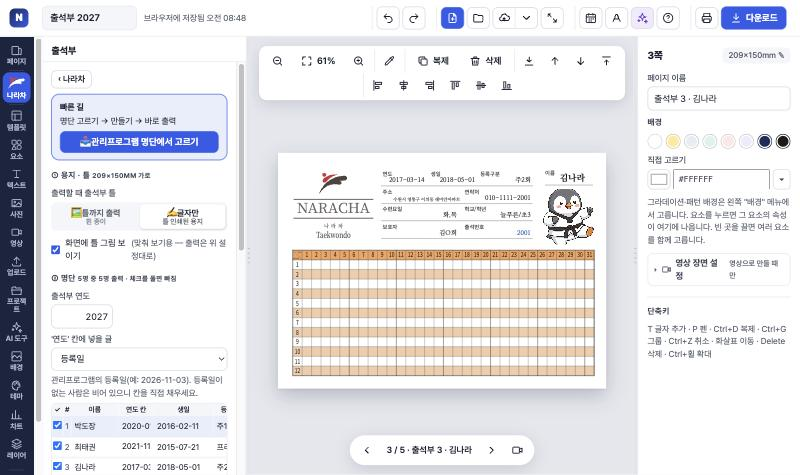
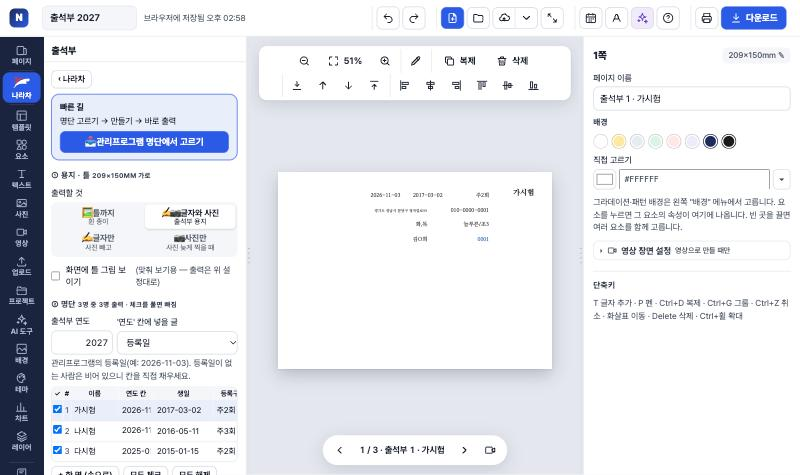
출석부 패널 미리 보기 뺌(오른쪽 편집 화면이 실시간 미리 보기), 매뉴얼 그림 다시 (20261119.1458)

diff --git a/manual.js b/manual.js
@@ -28,11 +28,11 @@ window.NC_MANUAL = [
     ] },
   { id: 'att', icon: '📋', title: '출석부 용지에 학생 정보 찍기', when: '연말 일괄 · 새 관원 올 때', sum: '관리 프로그램 명단에서 학생을 골라, 이미 인쇄된 출석부 용지(가로 209×150mm) 위쪽 빈칸에 이름·생일·연락처·사진 등을 찍습니다. 아래쪽 출석 칸은 그대로 둡니다.',
     steps: [
-      { t: '명단 고르기', d: '나라차 → <b>출석부</b>에서 <b>📥 관리프로그램 명단에서 고르기</b>를 누릅니다. 지금 <b>재원생만</b>(휴관·퇴관 빼고) 나옵니다. 고르는 방법은 네 가지입니다 — <b>재원생 전체</b>(연말에 한꺼번에), <b>반별</b>(반을 체크), <b>이름 검색</b>(한 명씩), <b>최근 등록생</b>(<b>오늘·이번 주·이번 달·기간 지정</b> — 새 관원이 왔을 때). 뺄 사람은 체크를 풉니다. 📷 표시는 관리 프로그램에 사진이 있는 사람입니다. <b>명단에 넣기</b>를 누르면 왼쪽 ② 명단에 들어가고 오른쪽에 출석부 쪽이 바로 만들어집니다 — 확인·고친 뒤 ④ <b>🖨 출석부 출력하기</b>나 위 막대 🖨 출력으로 찍습니다.', img: 'm31-att-pick.jpg',
+      { t: '명단 고르기', d: '나라차 → <b>출석부</b>에서 <b>📥 관리프로그램 명단에서 고르기</b>를 누릅니다. 지금 <b>재원생만</b>(휴관·퇴관 빼고) 나옵니다. 고르는 방법은 네 가지입니다 — <b>재원생 전체</b>(연말에 한꺼번에), <b>반별</b>(반을 체크), <b>이름 검색</b>(한 명씩), <b>최근 등록생</b>(<b>오늘·이번 주·이번 달·기간 지정</b> — 새 관원이 왔을 때). 뺄 사람은 체크를 풉니다. 📷 표시는 관리 프로그램에 사진이 있는 사람입니다. <b>명단에 넣기</b>를 누르면 왼쪽 ② 명단에 들어가고 오른쪽에 출석부 쪽이 바로 만들어집니다 — 오른쪽 편집 화면이 곧 미리 보기입니다 — 확인·고친 뒤 ③ <b>🖨 출석부 출력하기</b>나 위 막대 🖨 출력으로 찍습니다.', img: 'm31-att-pick.jpg',
         marks: [[15.8, 41.7, '재원생 전체 — 연말 일괄'], [38.6, 41.7, '반별'], [61.4, 41.7, '이름 검색 — 한 명씩'], [84.2, 41.7, '최근 등록생 — 새 관원'], [12, 49.2, '오늘·이번 주·이번 달·기간 지정'], [50, 63.3, '체크를 풀면 빠짐 · 📷 사진 있음'], [15.2, 71.3, '지금 명단을 바꾸기 (끄면 뒤에 더함)'], [90.7, 71.3, '명단에 넣기 → 왼쪽 명단·오른쪽 쪽에 바로']], go: [['attPick', '명단 고르기 열기']] },
       { t: '칸 확인하고 고치기', d: '패널 <b>② 명단</b> 표에서 칸을 바로 고칠 수 있습니다(주소는 관리프로그램 <b>학적부</b>의 주소 — 🗒 상담·특이사항 로그의 「주소: …」「주소변경: …」「거주지: …」 줄, 없으면 주소처럼 쓴 줄, 여러 개면 <b>가장 최근 날짜</b>(이사하면 학적부에 새 주소를 적으면 됨) — 에서 <b>지역까지만</b> — 도로명이면 <b>도로명 + 건물 번호</b>까지(정자일로55·정자일로 44), 아파트면 아파트 이름까지, 상세주소 숫자(109동·1100호·109-1100·층)·지번(190번지)·주소 뒤 메모(· 차량: …)는 뺌. 보호자 이름은 가운데 글자를 <b>O</b>로(김영희 → 김O희, 두 글자는 김O). 학교/학년은 겹치는 글자를 빼서 늘푸른/초3. <b>차량 이용 학생</b>은 이름 오른쪽에 작은 노란 차가 붙습니다(관리프로그램 차량 노선에 이름이 있으면 자동, 표의 🚌 칸으로 켜고 끔). 연락처·출석번호는 <b>어머니 휴대폰</b>(없으면 첫 보호자), 수련요일은 최근 8주 시간표에서 2주 이상 나온 요일). <b>연도 칸</b>에는 기본으로 <b>등록일</b>(예: 2026-11-03)이 들어갑니다(신규/기등록 자동·모두 기등록·연도 숫자·비움으로 바꿀 수 있음). 체크를 풀면 출력에서 빠집니다. 왼쪽에서 바꾼 것(명단·칸·연도 칸·명단 비우기·틀까지/글자만)은 <b>오른쪽 출석부 쪽에 바로</b> 나타납니다 — 「만들기」를 다시 누르지 않아도 됩니다. <b>화면에 틀 그림 보이기</b>를 켜면 출석부 용지 그림 위에서 글자 자리를 맞춰 볼 수 있습니다. 쪽에서 글 상자·사진을 옮긴 뒤 <b>이 쪽 배치를 모든 출석부에</b>를 누르면 모두 같은 자리로 바뀝니다.', img: 'm30-att-panel.jpg',
-        marks: [[18, 29.7, '관리프로그램 명단에서 고르기'], [18, 45.5, '출력할 때 틀 — 기본은 ✍ 글자만'], [7, 52, '화면에 틀 보이기 (글자만 출력일 때 맞춰 보기용)'], [8, 66.5, '출석부 연도'], [19, 75.5, '연도 칸 — 기본: 등록일'], [18, 92, '명단 — 체크 = 출력, 칸을 바로 고침'], [55, 56, '출석부 쪽 — 용지 칸에 맞게 글자·사진']], go: [['att', '출석부 열기']] },
-      { t: '출석부 출력하기', d: '출석부는 왼쪽에서 고르는 대로 오른쪽에 바로 만들어집니다. ④ <b>🖨 출석부 출력하기 (N장)</b>를 누르면 출력 창이 <b>출석부 쪽만</b>·용지 <b>A4 세로 맨 위(엡손에 맞춘 기본 자리)</b>·<b>실제 크기 100%</b>로 열립니다(출석부용 설정은 상장과 따로 기억). 윈도우·엡손 프린터 창은 <b>용지 A4·세로·배율 100%</b> 그대로 두고, 출석부 용지를 <b>A4처럼 위쪽(로고·이름 쪽)부터</b> 뒤쪽 급지대에 넣습니다. 어긋나면 출력 창의 <b>위치 보정</b>(가로·세로 mm). 출력할 것은 네 가지 — <b>🖼 틀까지</b>(흰 종이에 틀·글자·사진), <b>✍📷 글자와 사진</b>(인쇄된 출석부 용지 — 기본), <b>✍ 글자만</b>(사진은 빼고 — 사진은 나중에), <b>📷 사진만</b>(사진을 늦게 찍었을 때 — 글자가 이미 찍힌 출석부에 사진만, 사진 있는 쪽만 나감). 빼는 것은 편집 화면에서 흐리게 보입니다. 출력 자리는 엡손으로 맞춘 기본 자리(A4 맨 위에서 5mm 아래)라 여백·위치 보정은 0 그대로 두면 됩니다.', img: 'm32-att-print.jpg',
+        marks: [[18.1, 29.9, '관리프로그램 명단에서 고르기'], [18.1, 48.4, '출력할 것 — 틀까지·글자와 사진(기본)·글자만·사진만'], [9, 58.1, '화면에 틀 보이기 (맞춰 보기용)'], [10.3, 72.2, '출석부 연도'], [22.2, 72.2, '연도 칸 — 기본: 등록일'], [18, 89.4, '명단 — 체크 = 출력, 칸을 바로 고침'], [51.9, 57, '오른쪽 편집 화면 = 미리 보기 (실시간)']], go: [['att', '출석부 열기']] },
+      { t: '출석부 출력하기', d: '출석부는 왼쪽에서 고르는 대로 오른쪽 편집 화면에 바로 만들어집니다(그 화면이 미리 보기). ③ <b>🖨 출석부 출력하기 (N장)</b>를 누르면 출력 창이 <b>출석부 쪽만</b>·용지 <b>A4 세로 맨 위(엡손에 맞춘 기본 자리)</b>·<b>실제 크기 100%</b>로 열립니다(출석부용 설정은 상장과 따로 기억). 윈도우·엡손 프린터 창은 <b>용지 A4·세로·배율 100%</b> 그대로 두고, 출석부 용지를 <b>A4처럼 위쪽(로고·이름 쪽)부터</b> 뒤쪽 급지대에 넣습니다. 어긋나면 출력 창의 <b>위치 보정</b>(가로·세로 mm). 출력할 것은 네 가지 — <b>🖼 틀까지</b>(흰 종이에 틀·글자·사진), <b>✍📷 글자와 사진</b>(인쇄된 출석부 용지 — 기본), <b>✍ 글자만</b>(사진은 빼고 — 사진은 나중에), <b>📷 사진만</b>(사진을 늦게 찍었을 때 — 글자가 이미 찍힌 출석부에 사진만, 사진 있는 쪽만 나감). 빼는 것은 편집 화면에서 흐리게 보입니다. 출력 자리는 엡손으로 맞춘 기본 자리(A4 맨 위에서 5mm 아래)라 여백·위치 보정은 0 그대로 두면 됩니다.', img: 'm32-att-print.jpg',
         marks: [[48, 27, '출력할 쪽 — 출석부 쪽만'], [70, 27, '용지 — 문서 크기 209×150'], [70.6, 36.3, '출석부 틀 — 글자만 (인쇄된 용지)'], [62, 58.6, '실제 크기 100%'], [49.8, 65.4, '여백 4mm'], [20, 41, '종이 미리 보기 — 글자·사진만'], [76.6, 84, '출력 (아래에 위치 보정)']], go: [['att', '출석부 열기']] }
     ] },
   { id: 'news', icon: '📰', title: '매달 소식지 만들기', when: '매달 말', sum: '관리 프로그램 자료(일정·인성 덕목·심사·대회)로 다음 달 소식지를 만들고 인쇄·TV·학부모앱용으로 냅니다.',

diff --git a/app.js b/app.js
@@ -5957,9 +5957,7 @@ function renderAttSide(body) {
   <div class="ctable-wrap" style="margin-top:6px"><table class="ctable"><tr><th title="출력">✓</th><th>#</th>${cols.map(([, l]) => `<th>${esc(l)}</th>`).join('')}<th title="차량 이용 — 이름 오른쪽에 차 표시">🚌</th><th title="관리프로그램 사진">📷</th><th></th></tr>
   ${rows.map((r, i) => `<tr class="${i === attPrev ? 'cur' : ''} ${r.off ? 'off' : ''}"><td><input type="checkbox" data-aon="${i}" ${r.off ? '' : 'checked'} title="체크를 풀면 출력에서 빠짐"></td><td class="ci" data-apick="${i}" title="미리 보기">${i + 1}</td>${cols.map(([k]) => `<td><input data-ar="${i}" data-ak="${k}" value="${esc(r[k] || '')}" style="min-width:${W[k]}em"></td>`).join('')}<td><input type="checkbox" data-abus="${i}" ${r.bus ? 'checked' : ''} title="차량 이용 (관리프로그램 차량 노선에서 자동)"></td><td>${r.photo ? `<button class="x" data-aphdel="${i}" title="사진 빼기">📷</button>` : `<button class="x" data-aphadd="${i}" title="사진 넣기 (그림 파일)">＋</button>`}</td><td><button class="x" data-adel="${i}" title="이 줄 지우기">×</button></td></tr>`).join('')}</table></div>
   <div class="row" style="gap:6px;flex-wrap:wrap;margin-top:6px"><button class="btn sm" data-ax="add">+ 한 명 (손으로)</button>${rows.length ? '<button class="btn sm" data-ax="allon">모두 체크</button><button class="btn sm" data-ax="alloff">모두 해제</button><button class="btn sm" data-ax="clear">명단 비우기</button>' : ''}</div>
-  <h3>③ 미리 보기</h3>
-  ${rows.length ? `<div class="row cprevnav"><button class="btn sm icon" data-anav="-1">‹</button><span>${Math.min(attPrev + 1, rows.length)} / ${rows.length} · <b>${esc((rows[attPrev] || {}).name || '(이름 없음)')}</b>${(rows[attPrev] || {}).off ? ' <small>(빠짐)</small>' : ''}</span><button class="btn sm icon" data-anav="1">›</button></div><div class="cprev" id="aprev"></div><p class="hint" style="margin:4px 0 0">${A.printFrame ? '🖼 틀까지 출력 — 흰 종이에 틀과 글자를 함께 찍습니다' : '흐린 틀은 자리를 맞춰 보는 그림 — ✍ 글자만 출력하므로 틀은 찍히지 않습니다'}.</p>` : '<p class="hint">명단을 넣으면 여기에 출석부가 보입니다.</p>'}
-  <h3>④ 출력</h3>
+  <h3>③ 출력</h3>
   <button class="btn primary full" data-ax="printnow" ${nOn ? '' : 'disabled'} title="출석부는 왼쪽 값대로 이미 오른쪽에 만들어져 있습니다 — 출력 창으로 바로">🖨 출석부 출력하기 (${nOn}장)</button>
   <div class="row" style="gap:6px;margin-top:6px;flex-wrap:wrap"><button class="btn sm" data-ax="pdf" ${made ? '' : 'disabled'}>PDF로 저장</button><button class="btn sm" data-ax="layout" ${page() && page().att ? '' : 'disabled'} title="지금 출석부 쪽에서 글 상자·사진을 옮기거나 글꼴·크기를 바꾼 뒤 누르면, 모든 출석부에 같은 배치로">이 쪽 배치를 모든 출석부에</button>${Object.keys(A.layout).length ? '<button class="btn sm" data-ax="layoutreset">배치 처음대로</button>' : ''}</div>
   <p class="hint" style="margin-top:8px">출석부는 왼쪽에서 고르는 대로 오른쪽에 바로 만들어집니다. 출력 창은 <b>A4 세로 맨 위·실제 크기</b>(엡손에 맞춘 기본 자리)로 열리니, 출석부 용지를 A4처럼 위쪽부터 넣으세요. 어긋나면 출력 창의 <b>위치 보정</b>(가로·세로 mm) — 이 PC가 출석부용으로 따로 기억합니다. 이름이 길면 글자가 저절로 줄어듭니다.</p></div>`;

diff --git a/index.html b/index.html
@@ -15,8 +15,8 @@
 <meta property="og:description" content="캘린더·포스터·SNS·상장을 만드는 디자인 에디터">
 <meta property="og:image" content="https://narachadata.github.io/design/og.png">
 <meta property="og:type" content="website">
-<link rel="stylesheet" href="fonts/fonts.css?v=20261119.1447">
-<link rel="stylesheet" href="app.css?v=20261119.1447">
+<link rel="stylesheet" href="fonts/fonts.css?v=20261119.1458">
+<link rel="stylesheet" href="app.css?v=20261119.1458">
 </head>
 <body>
 <svg width="0" height="0" style="position:absolute" aria-hidden="true"><defs>
@@ -202,31 +202,31 @@
 <style id="pageStyle"></style>
 <div class="toast" id="toast" popover="manual" hidden></div>
 
-<script src="version.js?v=20261119.1447"></script>
-<script src="fonts/fonts.js?v=20261119.1447"></script>
-<script src="fonts/webfonts.js?v=20261119.1447"></script>
-<script src="assets.js?v=20261119.1447"></script>
-<script src="assets-brand.js?v=20261119.1447"></script>
-<script src="defaults.js?v=20261119.1447"></script>
-<script src="ai.js?v=20261119.1447"></script>
-<script src="storage.js?v=20261119.1447"></script>
-<script src="live.js?v=20261119.1447"></script>
-<script src="lib.js?v=20261119.1447"></script>
-<script src="calendar.js?v=20261119.1447"></script>
-<script src="templates.js?v=20261119.1447"></script>
-<script src="templates2.js?v=20261119.1447"></script>
-<script src="templates3.js?v=20261119.1447"></script>
-<script src="templates4.js?v=20261119.1447"></script>
-<script src="templates5.js?v=20261119.1447"></script>
-<script src="effects.js?v=20261119.1447"></script>
-<script src="imgedit.js?v=20261119.1447"></script>
-<script src="elements.js?v=20261119.1447"></script>
-<script src="news.js?v=20261119.1447"></script>
-<script src="astream.js?v=20261119.1447"></script>
-<script src="media.js?v=20261119.1447"></script>
-<script src="vtemplates.js?v=20261119.1447"></script>
-<script src="video.js?v=20261119.1447"></script>
-<script src="manual.js?v=20261119.1447"></script>
-<script src="app.js?v=20261119.1447"></script>
+<script src="version.js?v=20261119.1458"></script>
+<script src="fonts/fonts.js?v=20261119.1458"></script>
+<script src="fonts/webfonts.js?v=20261119.1458"></script>
+<script src="assets.js?v=20261119.1458"></script>
+<script src="assets-brand.js?v=20261119.1458"></script>
+<script src="defaults.js?v=20261119.1458"></script>
+<script src="ai.js?v=20261119.1458"></script>
+<script src="storage.js?v=20261119.1458"></script>
+<script src="live.js?v=20261119.1458"></script>
+<script src="lib.js?v=20261119.1458"></script>
+<script src="calendar.js?v=20261119.1458"></script>
+<script src="templates.js?v=20261119.1458"></script>
+<script src="templates2.js?v=20261119.1458"></script>
+<script src="templates3.js?v=20261119.1458"></script>
+<script src="templates4.js?v=20261119.1458"></script>
+<script src="templates5.js?v=20261119.1458"></script>
+<script src="effects.js?v=20261119.1458"></script>
+<script src="imgedit.js?v=20261119.1458"></script>
+<script src="elements.js?v=20261119.1458"></script>
+<script src="news.js?v=20261119.1458"></script>
+<script src="astream.js?v=20261119.1458"></script>
+<script src="media.js?v=20261119.1458"></script>
+<script src="vtemplates.js?v=20261119.1458"></script>
+<script src="video.js?v=20261119.1458"></script>
+<script src="manual.js?v=20261119.1458"></script>
+<script src="app.js?v=20261119.1458"></script>
 </body>
 </html>

diff --git a/version.js b/version.js
@@ -1,1 +1,1 @@
-window.NARACAL_VER = "20261119.1447";
+window.NARACAL_VER = "20261119.1458";

diff --git a/작업인계.md b/작업인계.md
@@ -1176,6 +1176,12 @@
 - 확인(QA 출석부 4장): 2쪽에서 현재까지 → 2쪽, A4에 출석부 2장 → 1장(1·2쪽).
 - 매뉴얼 「원하는 쪽만 골라 출력 (인쇄 범위)」·상장 출력 글.
 
+## 2026-11-19 오후 — 출석부 패널 ③ 미리 보기 뺌 (팀장님 "오른쪽 편집 창이 미리 보기 — 둘 다 있어 혼선")
+- 출석부 패널의 작은 미리 보기(③, #aprev)를 뺌. 「④ 출력」은 「③ 출력」으로.
+- 매뉴얼: 출석부 글에 '오른쪽 편집 화면이 곧 미리 보기'를 넣고 ③ 번호로 바꿈. 그림 m30-att-panel.jpg를 다시 찍고(가짜 학생 3명) 번호 자리를 새로 잡음(출력할 것 네 가지).
+- 학적부 주소: 관리 앱 R4.824에서 addr 칸이 생기고 176명이 채워짐(팀장님 "주소 잘 나옴"). 동명이인 2명은 관리 쪽에서 팀장님 확인 중.
+- 상장 패널의 ④ 결과 미리 보기(작은 그림)는 그대로 둠 — 팀장님께 같은 정리를 할지 여쭤봄.
+
 # ▶ 남은 일 (2026-11-19 낮 기준, 위에서부터)
 - [중] 출석부 주소가 그래도 비는 학생: 학적부 로그에 주소 줄이 아예 없는 경우 — 팀장님이 관리 앱 학적부 🗒 로그에 「주소: …」로 적으면 다음 가져오기에 들어감.
 - [하] 출석부 「틀까지」(흰 종이) 출력본을 실제 용지와 겹쳐 보고 틀 선이 어긋나면 attFrameSVG 값 고치기(글자 자리는 위 여백 5mm로 맞음).
